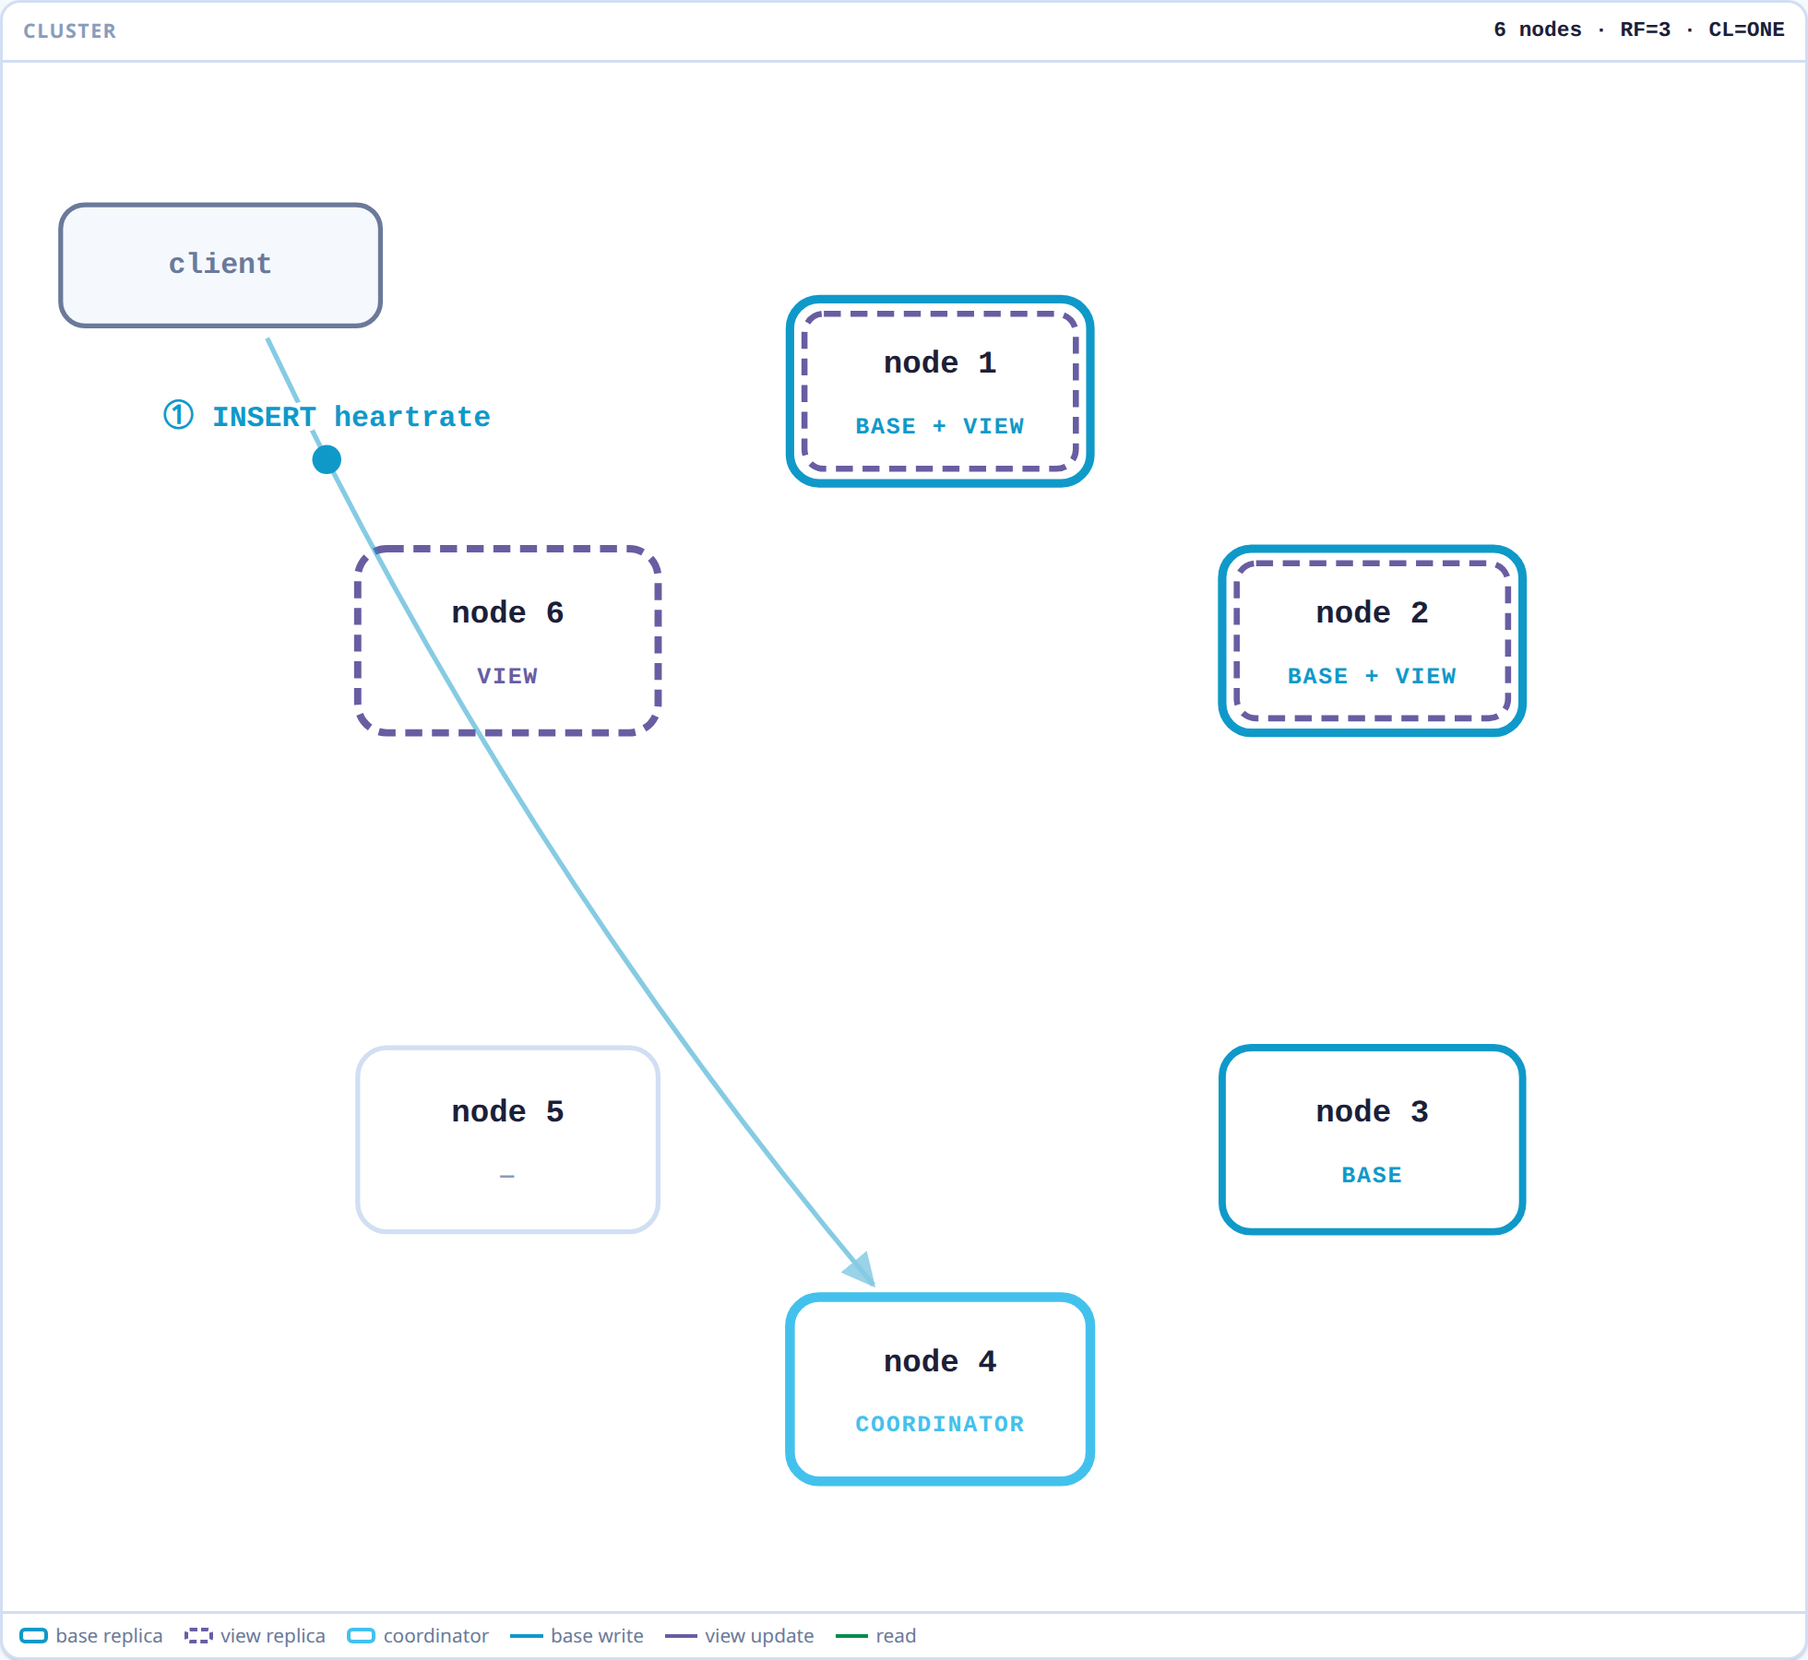
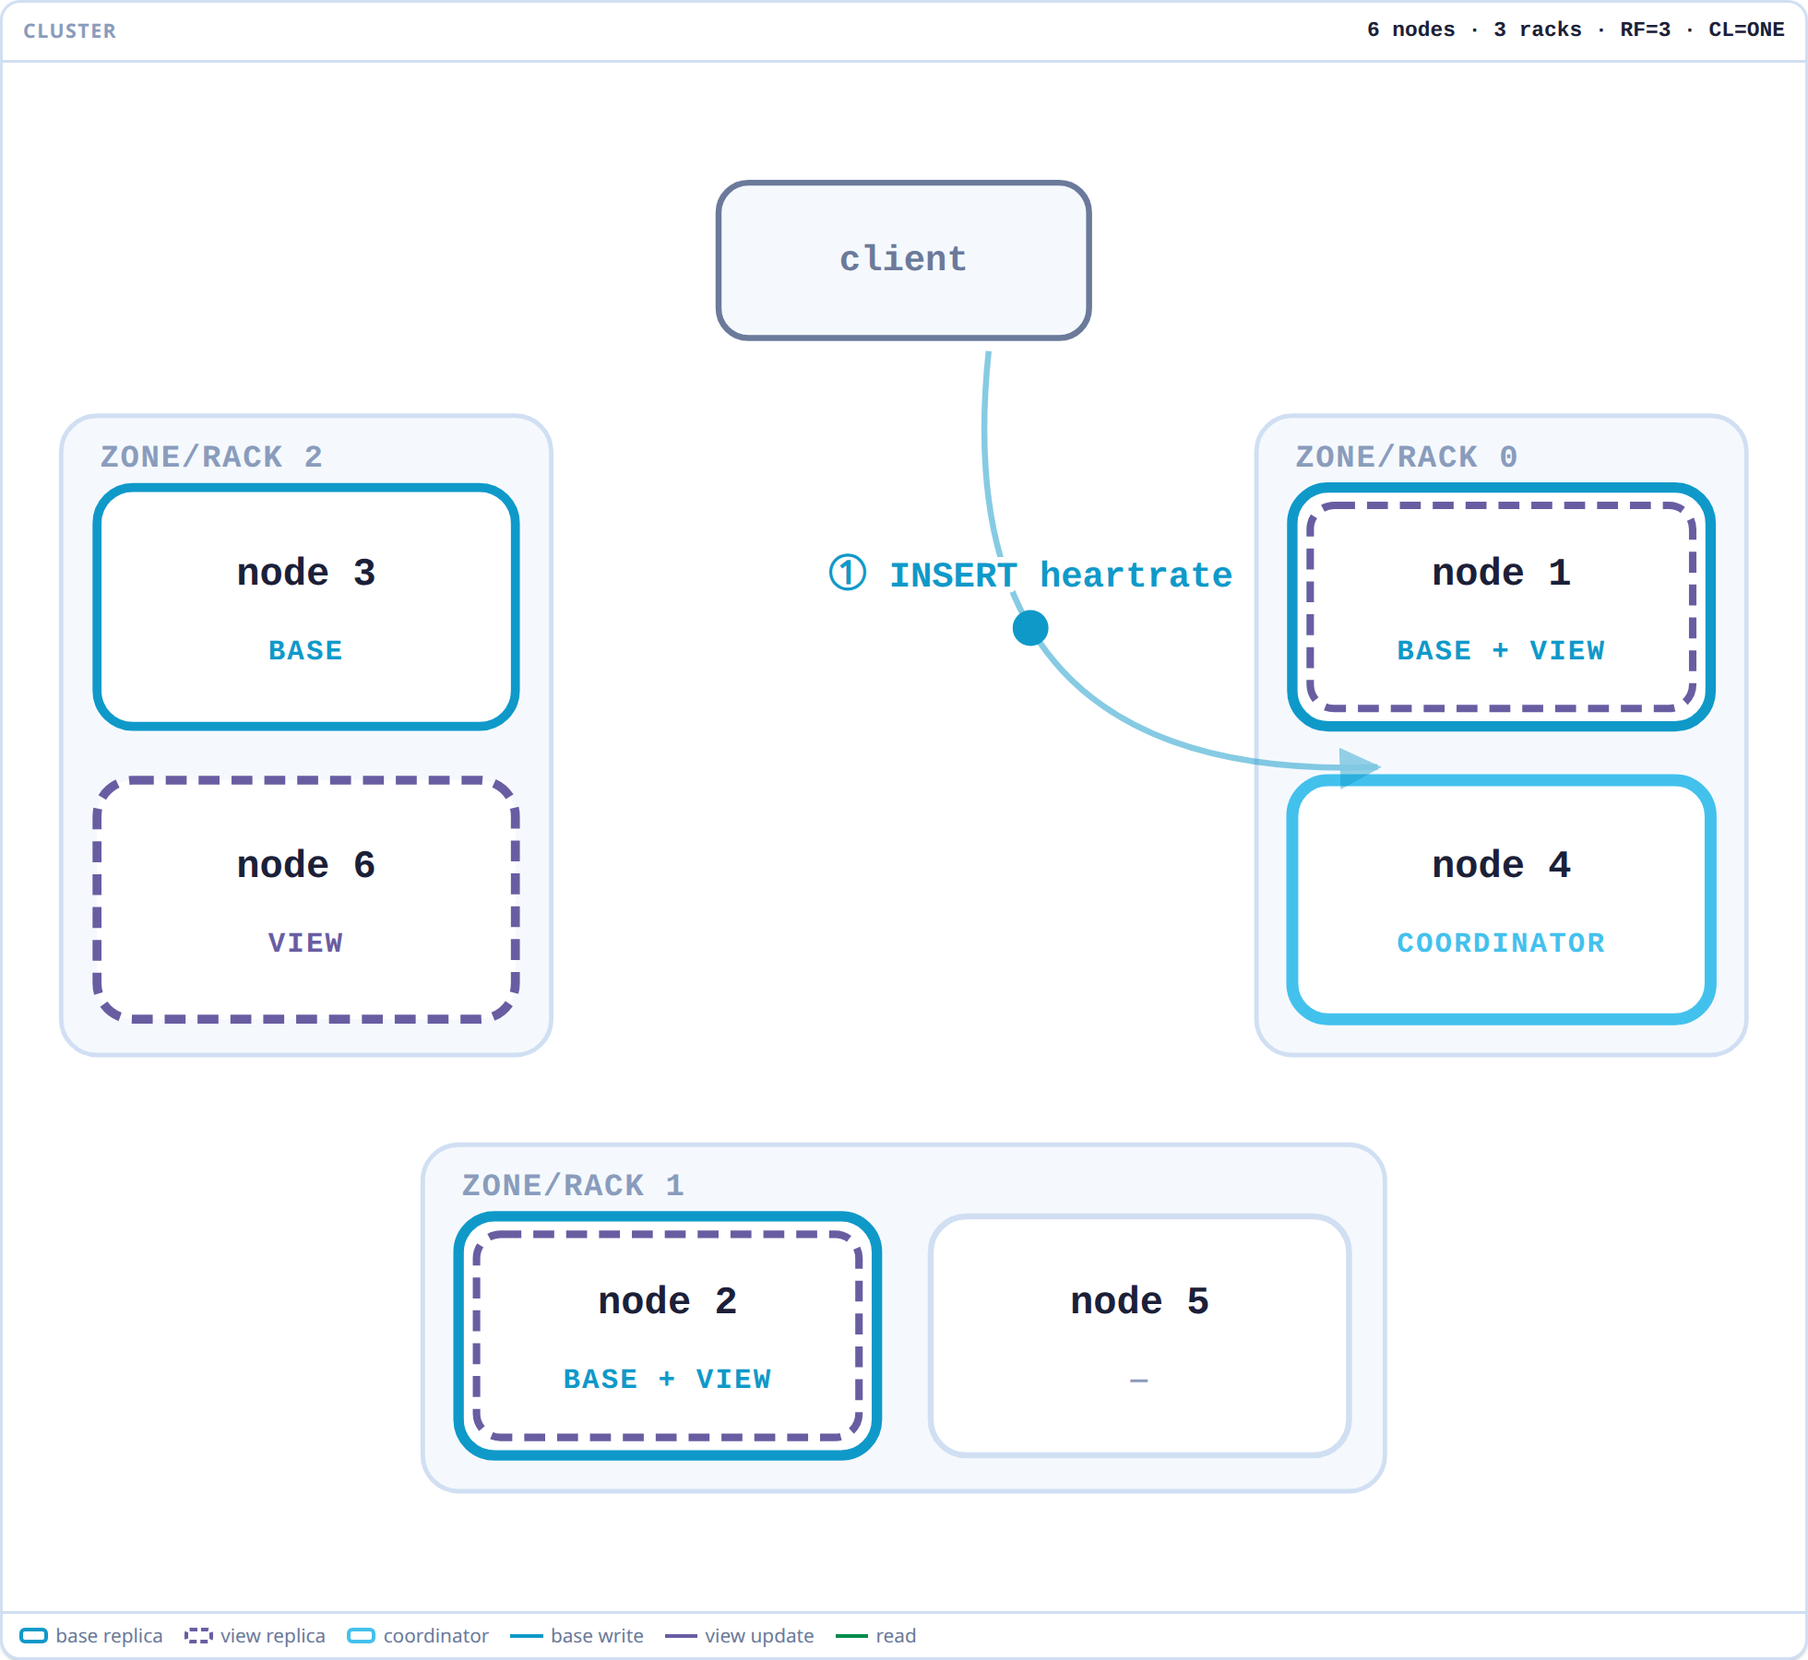
Draw the cluster as nodes in racks instead of a ring
Group the six nodes into three rack (availability zone) enclosures, the
same idea as scylladb-ha-demo, so the picture shows the failure domains
that make RF=3 mean something.

- Replica placement is now rack-aware, in the spirit of
  NetworkTopologyStrategy: every replica set covers all three racks.
  Nodes are numbered round-robin across racks, which is both how a
  cluster grown across three zones ends up numbered and what keeps all
  six nodes participating — numbering racks as contiguous pairs makes
  the rack-aware walk always prefer the first node of each pair, leaving
  half the cluster idle.
- The three enclosures sit around a triangle with the client on the top
  edge, rather than in a grid. Packing nodes into racks puts cards close
  enough that a straight hop often clips an uninvolved one; the triangle
  keeps an empty middle so there is always a clear arc to bend to, which
  a two-column grid does not have.
- hop() now checks its arc against every node card that is not an
  endpoint and opens the curve until it is clear. Verified over every
  hop the four modes make (200) and every from/to/bow combination (378):
  no arc is left crossing an uninvolved card.
- The local-index self loop and its label flip to the inner corner, so
  they no longer run off the canvas for the right-hand rack.

Enclosures are deliberately colorless: on this stage color already means
role and hop type, and the DS chart tokens collide with it outright
[…]

diff --git a/index.html b/index.html
@@ -278,6 +278,23 @@
   .stage-card .card-body { overflow: hidden; padding: 0.2em; }
   #stage { width: 100%; height: 100%; display: block; }
 
+  /* A rack (availability zone) enclosure: a lightly tinted panel behind the nodes it holds,
+     grouping them by proximity and a shared border. Deliberately colorless — on this stage
+     color already means role (base / view / coordinator) and hop type, and the DS categorical
+     chart tokens collide with those outright: --chart-1 IS --base, --chart-2 IS --view and
+     --chart-3 IS --warn. A rack is a container, not a role, so it recedes and lets the node
+     borders carry the meaning. */
+  .rack-box { fill: var(--surface-2); stroke: var(--border); stroke-width: 1.5; }
+  .rack-box-label {
+    fill: var(--text-faint);
+    font-family: var(--font-mono);
+    font-size: 10.5px;
+    font-weight: 700;
+    letter-spacing: 0.05em;
+    text-anchor: start;
+    pointer-events: none;
+  }
+
   .node-box {
     fill: var(--surface);
     stroke: var(--border);
@@ -504,10 +521,11 @@
       <div class="card stage-card" style="flex:1 1 auto;">
         <div class="card-head">
           <h2>Cluster</h2>
-          <span class="name">6 nodes &middot; RF=3 &middot; CL=ONE</span>
+          <span class="name">6 nodes &middot; 3 racks &middot; RF=3 &middot; CL=ONE</span>
         </div>
         <div class="card-body">
-          <svg id="stage" viewBox="0 0 740 620" xmlns="http://www.w3.org/2000/svg">
+          <!-- viewBox is recomputed from the rack geometry on render; this matches it. -->
+          <svg id="stage" viewBox="0 0 600 474" xmlns="http://www.w3.org/2000/svg">
             <defs>
               <marker id="arrowW" viewBox="0 0 10 10" refX="9" refY="5" markerWidth="7" markerHeight="7" orient="auto-start-reverse">
                 <path class="arrow-w" d="M0,0 L10,5 L0,10 z"></path>
@@ -522,6 +540,7 @@
                 <path class="arrow-f" d="M0,0 L10,5 L0,10 z"></path>
               </marker>
             </defs>
+            <g id="racksLayer"></g>
             <g id="nodesLayer"></g>
             <g id="clientLayer"></g>
             <g id="messagesLayer"></g>
@@ -609,15 +628,64 @@ const $ = (id) => document.getElementById(id);
 const esc = (s) => String(s).replace(/[&<>]/g, (c) => ({ "&": "&amp;", "<": "&lt;", ">": "&gt;" }[c]));
 
 /* ------------------------------------------------------------------ cluster geometry */
+// The cluster is drawn as racks, not as a ring: one bordered enclosure per rack, holding the
+// nodes that share its failure domain. A ring hides the only thing that makes RF=3 worth
+// anything — that the three replicas sit in three separate racks — so the enclosure is the
+// point of the picture.
+//
+// The three enclosures sit around a triangle (right, bottom, left) with the client in the
+// middle of the top edge. That arrangement is deliberate, not decorative: it puts all six node
+// cards on a convex hull around an empty middle, which is what leaves every hop somewhere to
+// go. Plenty of straight lines between two cards still clip a third — pickBow() below bends
+// those out of the way — but on this layout there is always a clear arc to bend to. A rack
+// grid has no such room: line up two columns of three and a hop to the far column has a card
+// dead centre with open space on neither side.
 const NODE_COUNT = 6;
 const RF = 3;
-const CX = 385, CY = 332, RING = 206, NW = 124, NH = 76;
+const RACK_COUNT = 3;
 
-const NODES = Array.from({ length: NODE_COUNT }, (_, i) => {
-  const a = (-90 + i * (360 / NODE_COUNT)) * Math.PI / 180;
-  return { i, name: "node " + (i + 1), x: CX + RING * Math.cos(a), y: CY + RING * Math.sin(a), hw: NW / 2, hh: NH / 2 };
+const NW = 140, NH = 80;      // one node card
+const RACK_PAD_X = 12;        // enclosure padding beside its nodes
+const RACK_PAD_TOP = 24;      // enclosure padding above them — carries the rack label
+const RACK_PAD_BOTTOM = 12;
+const STAGE_PAD = 18;
+
+// Node centres, hand-placed. Nodes are numbered round-robin across the racks (node i is in
+// rack i % RACK_COUNT), which is how a cluster grown one node at a time across three
+// availability zones ends up numbered — and it is what makes the plain three-step ring walk in
+// replicasFor() put one replica in each rack. Numbering the racks in contiguous pairs instead
+// looks tidier in a list and is far worse here: the rack-aware walk then always prefers the
+// first node of each pair, so half the cluster never holds a replica at all.
+const NODE_XY = [
+  [500, 160],   // node 1 — rack 0, upper slot on the right
+  [221, 404],   // node 2 — rack 1, left slot along the bottom
+  [100, 160],   // node 3 — rack 2, upper slot on the left
+  [500, 258],   // node 4 — rack 0, lower slot on the right
+  [379, 404],   // node 5 — rack 1, right slot along the bottom
+  [100, 258],   // node 6 — rack 2, lower slot on the left
+];
+
+const NODES = NODE_XY.map(([x, y], i) => ({
+  i, rack: i % RACK_COUNT, name: "node " + (i + 1),
+  x, y, hw: NW / 2, hh: NH / 2,
+}));
+
+// Each enclosure is just the bounding box of the nodes it holds, padded — so moving a node
+// centre above moves its rack with it and nothing has to be kept in sync by hand.
+const RACKS = Array.from({ length: RACK_COUNT }, (_, r) => {
+  const own = NODES.filter((n) => n.rack === r);
+  const x0 = Math.min(...own.map((n) => n.x - n.hw)) - RACK_PAD_X;
+  const x1 = Math.max(...own.map((n) => n.x + n.hw)) + RACK_PAD_X;
+  const y0 = Math.min(...own.map((n) => n.y - n.hh)) - RACK_PAD_TOP;
+  const y1 = Math.max(...own.map((n) => n.y + n.hh)) + RACK_PAD_BOTTOM;
+  return { r, label: "ZONE/RACK " + r, x: x0, y: y0, w: x1 - x0, h: y1 - y0 };
 });
-const CLIENT = { x: 88, y: 74, hw: 66, hh: 25 };
+
+const STAGE_W = Math.max(...RACKS.map((k) => k.x + k.w)) + STAGE_PAD;
+const STAGE_H = Math.max(...RACKS.map((k) => k.y + k.h)) + STAGE_PAD;
+
+// Top edge, centred between the left and right enclosures.
+const CLIENT = { x: STAGE_W / 2, y: STAGE_PAD + 26, hw: 62, hh: 26 };
 
 /* ------------------------------------------------------------------ tokens & replicas */
 // FNV-1a. Stands in for murmur3: all we need is a stable, well-spread key -> ring position.
@@ -629,10 +697,22 @@ function h32(s) {
 // What a real `token(pk)` would show: a signed 64-bit-ish number. Only its order matters here.
 function tokenOf(s) { return h32(s) | 0; }
 function ownerNode(key) { return h32(key) % NODE_COUNT; }
-// Consecutive ring ownership, the same shape SimpleStrategy produces.
+// Rack-aware ownership, the shape NetworkTopologyStrategy produces: walk the ring from the
+// token and take the next node whose rack has no replica yet, only doubling up on a rack once
+// every rack is represented (or RF is larger than the rack count). With the round-robin rack
+// numbering above a plain walk already spreads the three replicas over the three racks, so the
+// skip never has to fire at RF=3 — it is here so the guarantee is stated rather than left to
+// depend on how the nodes happen to be numbered.
 function replicasFor(key) {
   const start = ownerNode(key);
-  return Array.from({ length: RF }, (_, k) => (start + k) % NODE_COUNT);
+  const chosen = [], usedRacks = new Set(), spare = [];
+  for (let k = 0; k < NODE_COUNT && chosen.length < RF; k++) {
+    const i = (start + k) % NODE_COUNT;
+    if (usedRacks.has(NODES[i].rack)) spare.push(i);
+    else { chosen.push(i); usedRacks.add(NODES[i].rack); }
+  }
+  for (let k = 0; chosen.length < RF && k < spare.length; k++) chosen.push(spare[k]);
+  return chosen;
 }
 // Prefer a coordinator that owns none of the data, so every hop in the story is visible.
 // Where the client sends the request. A non-smart driver has no idea which node owns
@@ -984,6 +1064,8 @@ function renderWhere() {
 }
 
 /* ---------------------------------------------------------------- stage */
+const stageEl = $("stage");
+const racksLayer = $("racksLayer");
 const nodesLayer = $("nodesLayer");
 const clientLayer = $("clientLayer");
 const messagesLayer = $("messagesLayer");
@@ -996,8 +1078,22 @@ function el(tag, attrs, parent) {
 }
 
 function renderStage() {
+  // The viewBox follows the computed rack geometry, so changing a padding or a gap above moves
+  // the frame with it instead of leaving the drawing floating in a stale canvas.
+  stageEl.setAttribute("viewBox", `0 0 ${STAGE_W} ${STAGE_H}`);
+
+  racksLayer.innerHTML = "";
   nodesLayer.innerHTML = "";
   clientLayer.innerHTML = "";
+  RACKS.forEach((rk) => {
+    const g = el("g", {}, racksLayer);
+    el("rect", {
+      class: "rack-box", x: rk.x, y: rk.y, width: rk.w, height: rk.h, rx: 12, ry: 12,
+    }, g);
+    el("text", {
+      class: "rack-box-label", x: rk.x + 13, y: rk.y + 17,
+    }, g).textContent = rk.label;
+  });
   NODES.forEach((n) => {
     const g = el("g", { "data-i": n.i }, nodesLayer);
     el("rect", {
@@ -1069,13 +1165,47 @@ function edgePoint(a, tx, ty, gap) {
   return { x: a.x + dx * (s + gap / len), y: a.y + dy * (s + gap / len) };
 }
 
+// Does the arc a given bow produces stay off every node card that is not an endpoint of the
+// hop? Sampling the quadratic is enough: the cards are large and the curve is smooth.
+function arcIsClear(p1, p2, px, py, bow, skip) {
+  const cx = (p1.x + p2.x) / 2 + px * bow, cy = (p1.y + p2.y) / 2 + py * bow;
+  const PAD = 10;
+  for (let k = 1; k < 24; k++) {
+    const t = k / 24, u = 1 - t;
+    const x = u * u * p1.x + 2 * u * t * cx + t * t * p2.x;
+    const y = u * u * p1.y + 2 * u * t * cy + t * t * p2.y;
+    for (const n of NODES) {
+      if (skip.has(n.i)) continue;
+      if (Math.abs(x - n.x) < n.hw + PAD && Math.abs(y - n.y) < n.hh + PAD) return false;
+    }
+  }
+  return true;
+}
+
+// Grouping the nodes into racks packs them much closer than the old ring did, so the straight
+// line between two of them often clips a third — and an arrow drawn through an uninvolved card
+// reads as a hop to that card. The hand-tuned bow is therefore only a preference: keep it when
+// the arc is already clear, otherwise open the curve up (same side first, then the other) until
+// it is. Every hop the four modes make is clear at one of these magnitudes.
+function pickBow(p1, p2, px, py, bow, skip) {
+  const sign = bow < 0 ? -1 : 1;
+  for (const mag of [Math.abs(bow), 70, 110, 150, 190, 230]) {
+    for (const sg of [sign, -sign]) {
+      if (arcIsClear(p1, p2, px, py, mag * sg, skip)) return mag * sg;
+    }
+  }
+  return bow;
+}
+
 function hop(from, to, opts) {
   const { cls = "w", label = "", dur = HOP_MS, bow = 0 } = opts || {};
   const p1 = edgePoint(from, to.x, to.y, 6);
   const p2 = edgePoint(to, from.x, from.y, 6);
   const segLen = Math.hypot(p2.x - p1.x, p2.y - p1.y) || 1;
   const px = -(p2.y - p1.y) / segLen, py = (p2.x - p1.x) / segLen;
-  const cx = (p1.x + p2.x) / 2 + px * bow, cy = (p1.y + p2.y) / 2 + py * bow;
+  // The client has no `i`, so it simply never matches a node index here.
+  const useBow = pickBow(p1, p2, px, py, bow, new Set([from.i, to.i]));
+  const cx = (p1.x + p2.x) / 2 + px * useBow, cy = (p1.y + p2.y) / 2 + py * useBow;
 
   return new Promise((resolve) => {
     const path = el("path", { class: "msg-line " + cls, d: `M ${p1.x} ${p1.y} Q ${cx} ${cy} ${p2.x} ${p2.y}`, "marker-end": `url(#arrow${cls.toUpperCase()})` }, messagesLayer);
@@ -1102,14 +1232,18 @@ function hop(from, to, opts) {
 // A view update that never leaves the node it started on — the whole point of a local index.
 function selfLoop(n, label, dur, cls) {
   const c = cls || "v";
-  const cx = n.x + n.hw + 2, cy = n.y - n.hh - 2, r = 16;
+  // The loop hangs off whichever top corner faces the middle of the stage. Always using the
+  // right corner would push it, and its much wider label, clean off the canvas for the nodes
+  // in the right-hand rack.
+  const side = n.x < STAGE_W / 2 ? 1 : -1;
+  const cx = n.x + side * (n.hw + 2), cy = n.y - n.hh - 2, r = 16;
   return new Promise((resolve) => {
     const d = `M ${cx} ${cy - r} A ${r} ${r} 0 1 1 ${cx - 0.1} ${cy - r}`;
     const path = el("path", { class: "msg-line " + c, d, "marker-end": `url(#arrow${c.toUpperCase()})` }, messagesLayer);
     const total = path.getTotalLength();
     const dot = el("circle", { class: "packet " + c, r: 5 }, messagesLayer);
     let lab = null;
-    if (label) { lab = el("text", { class: "local-badge", x: cx + 26, y: cy - r - 6 }, messagesLayer); lab.textContent = label; }
+    if (label) { lab = el("text", { class: "local-badge", x: cx + side * 26, y: cy - r - 6 }, messagesLayer); lab.textContent = label; }
     const start = performance.now();
     const ms = (dur || HOP_MS) / state.speed;
     (function frame(now) {

diff --git a/README.md b/README.md
@@ -10,12 +10,14 @@ Every mode is shown on three surfaces at once:
 - **the base table and the table derived from it**, so the reordered primary key is visible
   rather than described,
 - **the cluster**, where a write and a read animate hop by hop across coordinator, base
-  replicas, and view replicas.
+  replicas, and view replicas, grouped into the racks they actually sit in.
 
 ![Cluster panel mid-INSERT: the client hands the write to node 4 as coordinator, with base replicas, view replicas and paired BASE + VIEW nodes marked](docs/cluster-insert.png)
 
 *Materialized View mode, step ① of the write path: node 4 is coordinating, nodes 1 and 2 hold
-both a base and a view replica, node 3 is base-only and node 6 view-only.*
+both a base and a view replica, node 3 is base-only and node 6 view-only. The three base
+replicas sit one per rack — that spread is what RF=3 is for, and the reason the nodes are drawn
+inside their racks rather than on a ring.*
 
 **Disclaimer:** An independent, educational visualization — not an official ScyllaDB product
 and not behaviorally exact. Not affiliated with or endorsed by ScyllaDB, Inc.
@@ -69,10 +71,11 @@ The derived schemas follow ScyllaDB's own construction rather than being invente
 - `db/view/view.cc` — each base replica ships its view update to one specific *paired* view
   replica, which is why the write path fans out and then pairs up rather than broadcasting.
 
-Simplifications: 6 nodes, RF=3, CL=ONE, no failures, no repair or view building, a stand-in
-hash where murmur3 would be, and short readable keys instead of UUIDs. The smart driver is
-modelled as token-awareness only — it always lands on the first replica, with no shard
-awareness, no load-based replica choice and no retry policy.
+Simplifications: 6 nodes across 3 racks, RF=3, CL=ONE, rack-aware replica placement in the
+spirit of `NetworkTopologyStrategy` but without datacenters, no failures, no repair or view
+building, a stand-in hash where murmur3 would be, and short readable keys instead of UUIDs.
+The smart driver is modelled as token-awareness only — it always lands on the first replica,
+with no shard awareness, no load-based replica choice and no retry policy.
 
 ## Using it
 
